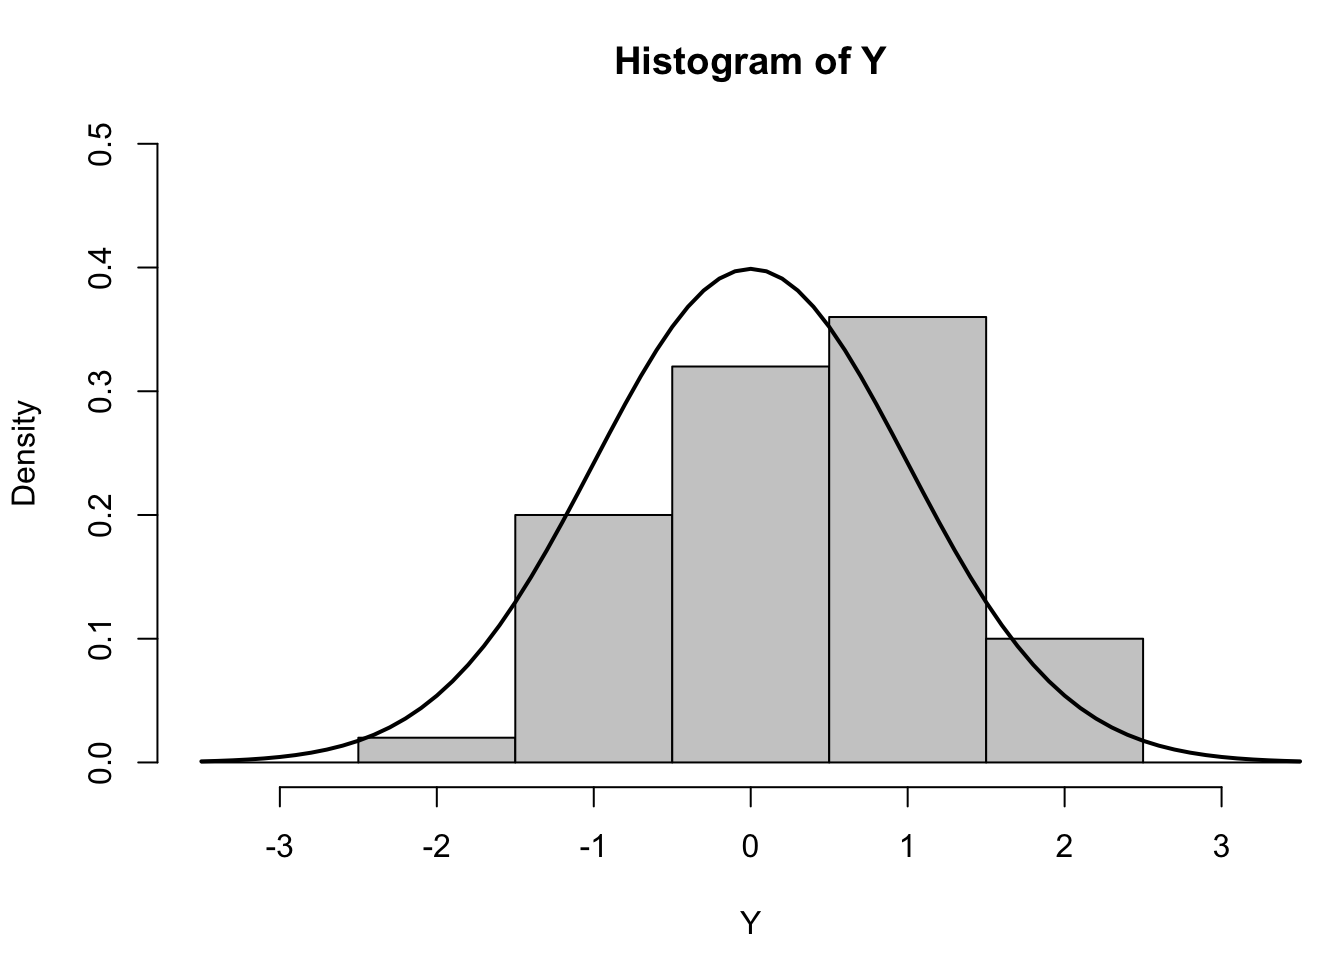
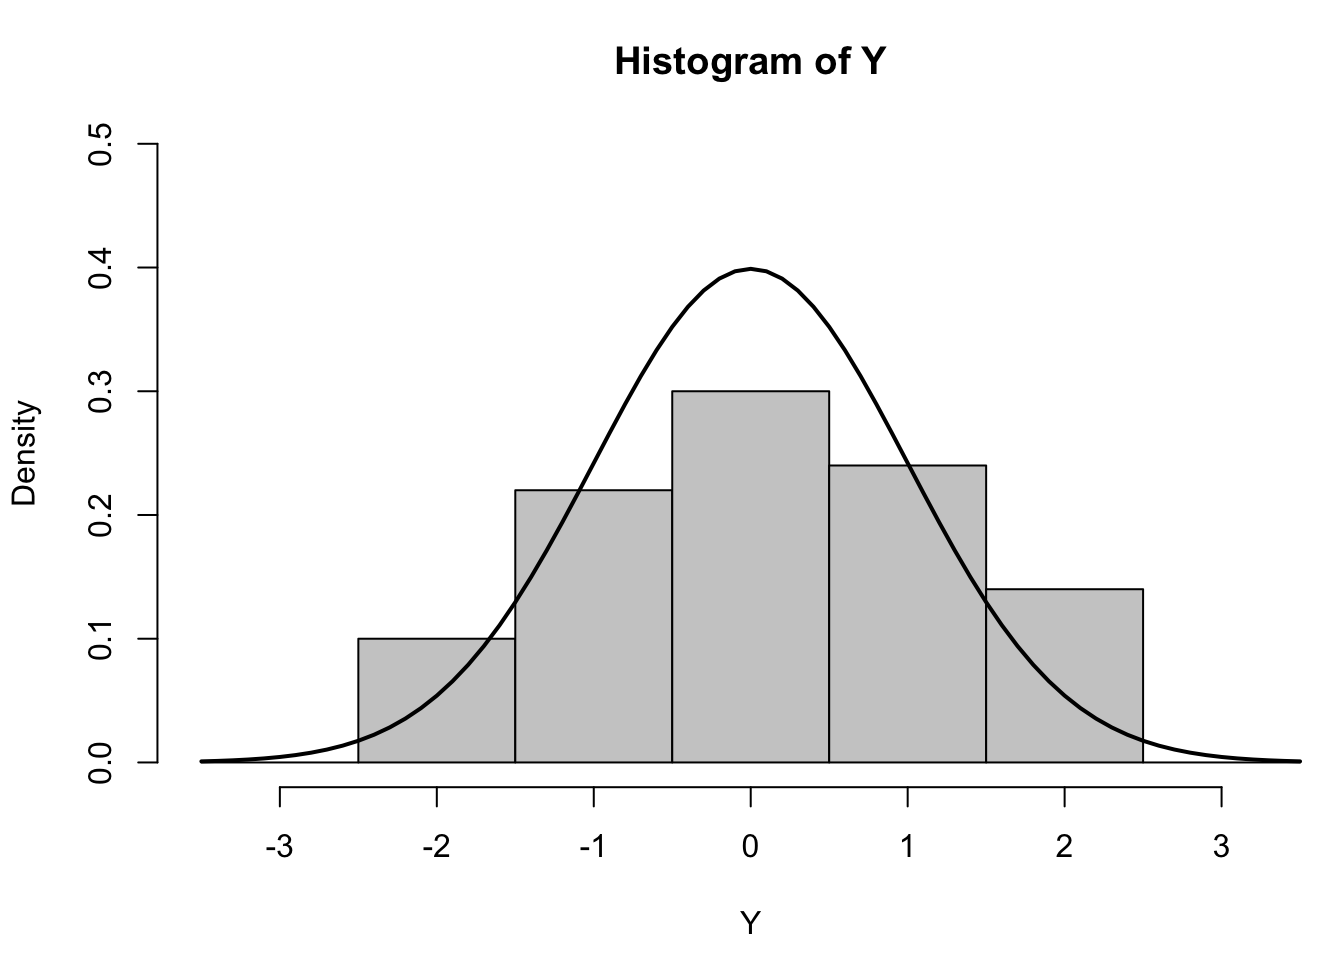
Add files via upload

diff --git a/_site/assignment2.html b/_site/assignment2.html
@@ -268,15 +268,16 @@ replace the existing scale.</code></pre>
 <span id="cb4-37"><a href="#cb4-37" aria-hidden="true" tabindex="-1"></a>Y <span class="ot">&lt;-</span> <span class="fu">rnorm</span>(<span class="dv">50</span>)</span>
 <span id="cb4-38"><a href="#cb4-38" aria-hidden="true" tabindex="-1"></a>Y</span></code><button title="Copy to Clipboard" class="code-copy-button"><i class="bi"></i></button></pre></div>
 <div class="cell-output cell-output-stdout">
-<pre><code> [1]  0.99452020  0.24201468  0.09465175 -1.41874554  0.57334665  0.34103275
- [7]  0.12677549  0.82254566  0.45377391  0.50311036  0.85155552 -0.82793589
-[13]  0.25102317  2.20266644  0.99450388  0.65338149  2.28331787  0.48724499
-[19] -0.90882202  0.91724076  1.04211413  0.06681951 -0.66275945  0.39562798
-[25] -0.21623061  1.01199496 -1.35938978  0.24152912  1.63871826 -0.55503291
-[31]  1.20282614  0.52474317  2.20819099  0.81059887  0.48141644  0.87395110
-[37]  0.42014556  0.32602911 -0.85973811  0.94331926 -1.09511335  0.67598311
-[43] -0.01557984 -1.56428295  1.18566876 -0.78777747  0.11085457 -1.18237795
-[49]  0.60292469  1.98727999</code></pre>
+<pre><code> [1] -0.584587370  0.450455155  0.079288752  1.293646296 -0.833181841
+ [6]  1.527448452  0.793051345  0.696289713 -0.727507185  1.029024190
+[11]  0.234916443 -1.106725351 -1.667739207 -0.276139077 -0.826450844
+[16] -0.467934763  1.424216230  1.686623419 -1.512821818 -0.202560864
+[21]  1.038409450  1.624730005  1.117289691  0.029678881  0.005765925
+[26] -0.845625820  1.713988226  0.874101013 -0.210681365 -0.847462450
+[31]  0.577977568 -0.882050683 -2.025498727 -0.037302866 -0.022652052
+[36]  1.008070097 -1.135792447  1.408240428  0.976026212 -0.256988772
+[41]  2.259408420 -0.373820384  0.288263066 -0.973288708 -2.299767063
+[46] -0.082725331  1.876742867  1.872259927 -1.046906800 -1.861629309</code></pre>
 </div>
 <div class="cell-output-display">
 <p><img src="assignment2_files/figure-html/unnamed-chunk-3-1.png" class="img-fluid" width="672"></p>

diff --git a/_site/assignment1.html b/_site/assignment1.html
@@ -155,7 +155,7 @@ code span.wa { color: #60a0b0; font-weight: bold; font-style: italic; } /* Warni
  <span class="dropdown-text">assignment1</span></a>
   </li>  
         <li>
-    <a class="dropdown-item" href="./assignment2.qmd">
+    <a class="dropdown-item" href="./assignment2.html">
  <span class="dropdown-text">assignment2</span></a>
   </li>  
         <li>

diff --git a/_site/about.html b/_site/about.html
@@ -92,7 +92,7 @@ ul.task-list{list-style: none;}
  <span class="dropdown-text">assignment1</span></a>
   </li>  
         <li>
-    <a class="dropdown-item" href="./assignment2.qmd">
+    <a class="dropdown-item" href="./assignment2.html">
  <span class="dropdown-text">assignment2</span></a>
   </li>  
         <li>

diff --git a/_site/index.html b/_site/index.html
@@ -92,7 +92,7 @@ ul.task-list{list-style: none;}
  <span class="dropdown-text">assignment1</span></a>
   </li>  
         <li>
-    <a class="dropdown-item" href="./assignment2.qmd">
+    <a class="dropdown-item" href="./assignment2.html">
  <span class="dropdown-text">assignment2</span></a>
   </li>  
         <li>

diff --git a/_site/project.html b/_site/project.html
@@ -92,7 +92,7 @@ ul.task-list{list-style: none;}
  <span class="dropdown-text">assignment1</span></a>
   </li>  
         <li>
-    <a class="dropdown-item" href="./assignment2.qmd">
+    <a class="dropdown-item" href="./assignment2.html">
  <span class="dropdown-text">assignment2</span></a>
   </li>  
         <li>

diff --git a/_site/research.html b/_site/research.html
@@ -92,7 +92,7 @@ ul.task-list{list-style: none;}
  <span class="dropdown-text">assignment1</span></a>
   </li>  
         <li>
-    <a class="dropdown-item" href="./assignment2.qmd">
+    <a class="dropdown-item" href="./assignment2.html">
  <span class="dropdown-text">assignment2</span></a>
   </li>  
         <li>
